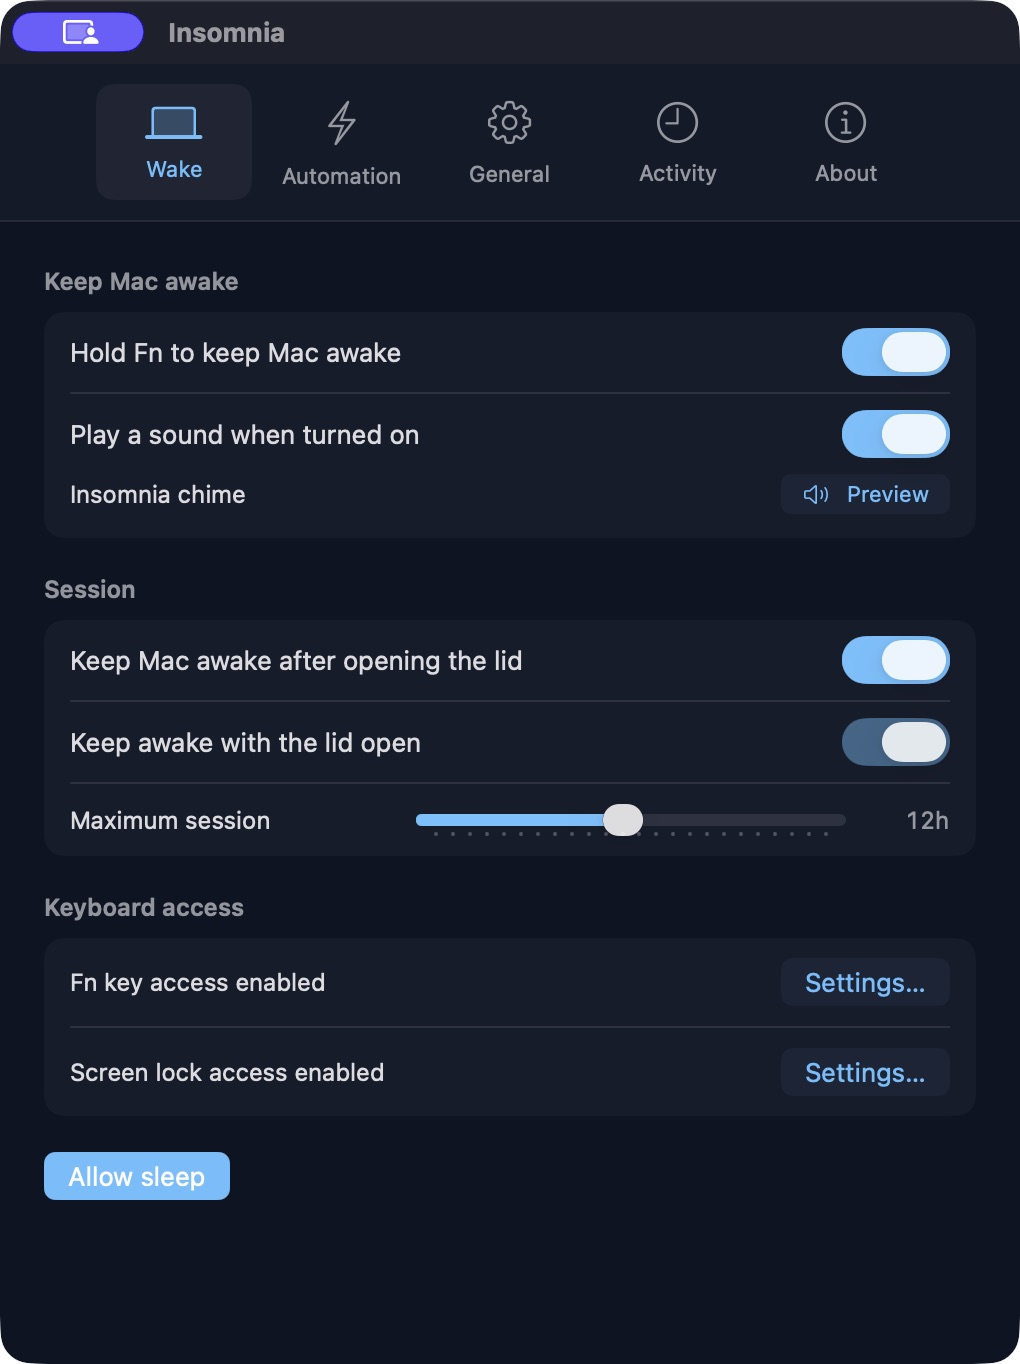
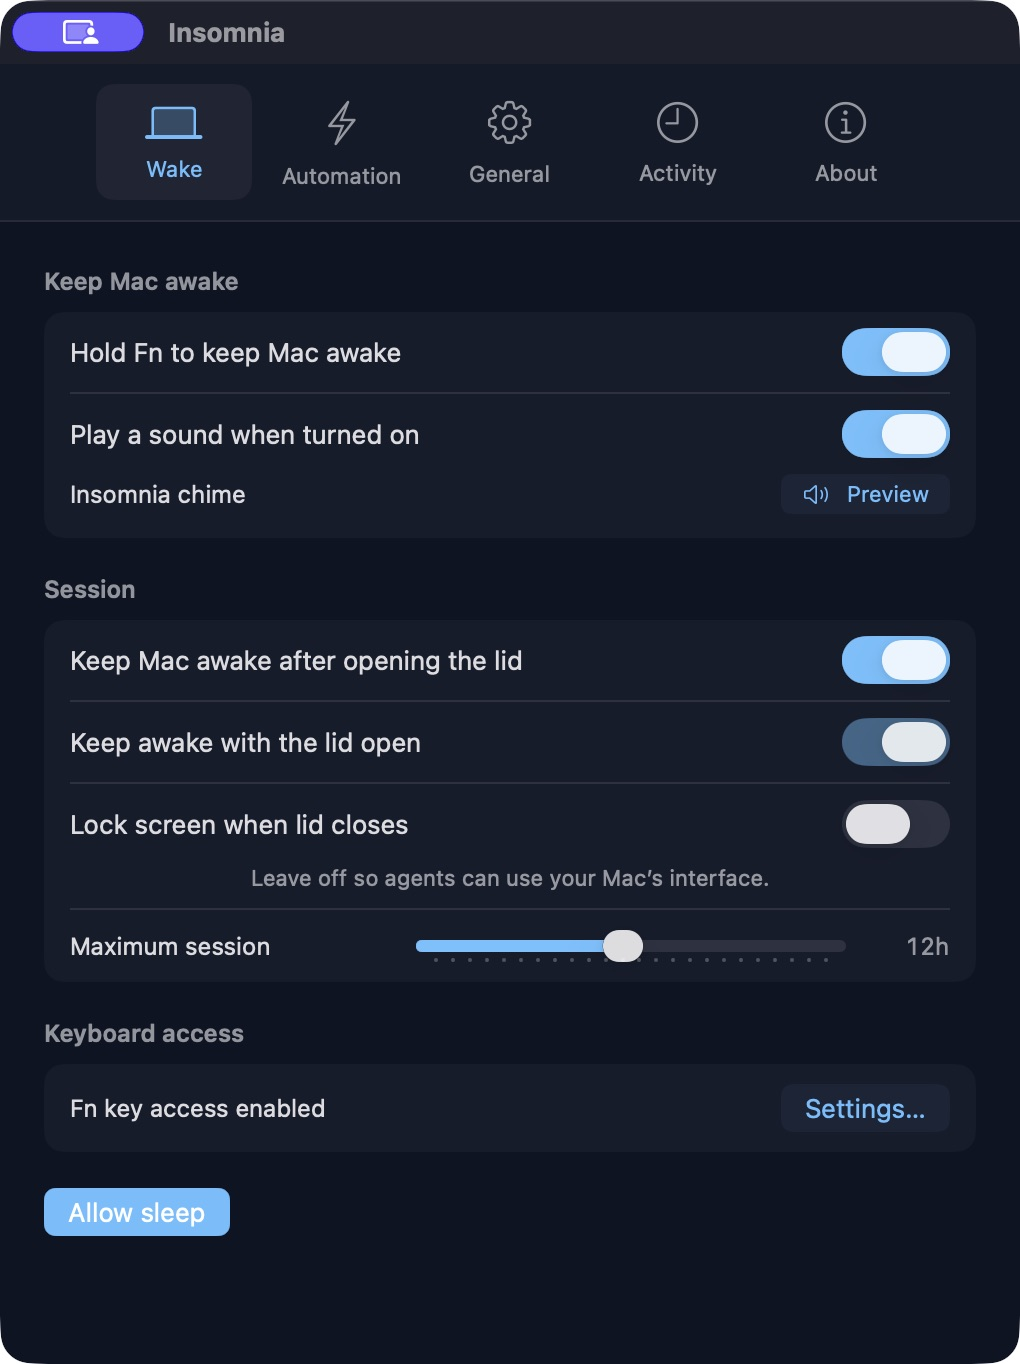
feat: make lid locking optional and prepare public release

diff --git a/Sources/Insomnia/Model.swift b/Sources/Insomnia/Model.swift
@@ -135,7 +135,13 @@ import SwiftUI
       started = Date()
       deadline = minutes.map { Date().addingTimeInterval($0 * 60) }
       message = automatically ? "Keeping your agents working" : "You can close the lid"
-      log("Armed\(automatically ? " by agent" : " manually")")
+      let agents = Array(
+        Set(
+          sessions.filter {
+            $0.state == "working" || preferences.keepWaiting && $0.state == "waiting"
+          }.map(\.agent))
+      ).sorted().joined(separator: ", ")
+      log(automatically ? "Keep awake started by \(agents)" : "Keep awake started manually")
       if preferences.sound { playChime() }
     } catch {
       self.error = error.localizedDescription
@@ -188,7 +194,7 @@ import SwiftUI
     if closed != lidClosed {
       lidClosed = closed
       if closed && armed {
-        lockAndSleepDisplay()
+        if preferences.lockOnLidClose { lockScreen() }
         hideOverlay?()
         log("Lid closed")
       }
@@ -207,10 +213,19 @@ import SwiftUI
         return (url, event)
       }.sorted { $0.1.timestamp < $1.1.timestamp }
       for (url, event) in events {
+        let before = registry.sessions
         registry.apply(event)
+        let key = event.agent + ":" + event.session
+        if before[key]?.state != registry.sessions[key]?.state {
+          let state =
+            event.state == "finished"
+            ? "finished" : event.state == "waiting" ? "waiting for approval" : "working"
+          log("\(event.agent): \(state)")
+        }
         try? FileManager.default.removeItem(at: url)
       }
     }
+    let previousAgents = Array(Set(sessions.map(\.agent))).sorted().joined(separator: ", ")
     registry.expire(now: Date(), hours: preferences.maximumHours)
     let currentSessions = registry.sessions.values.sorted { $0.started < $1.started }
     if sessions != currentSessions { sessions = currentSessions }
@@ -243,7 +258,7 @@ import SwiftUI
         automatic: automatic, enabled: preferences.autoStop, wasActive: previousActive,
         isActive: active)
       {
-        disarm("All agents finished", pauseAutomation: false)
+        disarm("Sleep allowed — \(previousAgents) no longer active", pauseAutomation: false)
       }
     } else if preferences.autoArm && active && !paused {
       arm(automatically: true)
@@ -256,22 +271,7 @@ import SwiftUI
   func registryValueLid() -> Bool {
     registryProperties("IOPMrootDomain")["AppleClamshellState"] as? Bool ?? false
   }
-  func lockAndSleepDisplay() {
-    let p = Process()
-    p.executableURL = URL(fileURLWithPath: "/usr/bin/pmset")
-    p.arguments = ["displaysleepnow"]
-    try? p.run()
-    // The public screen-lock shortcut, sent only on an armed lid-close transition.
-    if accessibilityTrusted,
-      let down = CGEvent(keyboardEventSource: nil, virtualKey: 12, keyDown: true),
-      let up = CGEvent(keyboardEventSource: nil, virtualKey: 12, keyDown: false)
-    {
-      down.flags = [.maskControl, .maskCommand]
-      up.flags = [.maskControl, .maskCommand]
-      down.post(tap: .cghidEventTap)
-      up.post(tap: .cghidEventTap)
-    }
-  }
+
   func diagnostics() -> String {
     "Insomnia 1.0\nmacOS \(ProcessInfo.processInfo.operatingSystemVersionString)\nArmed: \(armed)\nLid closed: \(lidClosed)\nBattery: \(sensors.battery.map { String(format: "%.0f%%", $0) } ?? "unavailable")\nTemperature: \(sensors.temperature.map { String(format: "%.1f°C", $0) } ?? "unavailable")\nThermal pressure: \(sensors.thermal)\nAgent sessions: \(sessions.count)\nConnections: \(connected.sorted().joined(separator: ", "))\n\n"
       + history.joined(separator: "\n")
@@ -285,15 +285,26 @@ import SwiftUI
     armingSound?.stop()
     armingSound?.play()
   }
-  func requestAccessibility(openSettings: Bool = false) {
+
+  func lockScreen() {
+    guard accessibilityTrusted,
+      let down = CGEvent(keyboardEventSource: nil, virtualKey: 12, keyDown: true),
+      let up = CGEvent(keyboardEventSource: nil, virtualKey: 12, keyDown: false)
+    else {
+      log("Screen lock needs Accessibility")
+      return
+    }
+    down.flags = [.maskControl, .maskCommand]
+    up.flags = [.maskControl, .maskCommand]
+    down.post(tap: .cghidEventTap)
+    up.post(tap: .cghidEventTap)
+  }
+  func requestAccessibility() {
     let options =
       [kAXTrustedCheckOptionPrompt.takeUnretainedValue() as String: true] as CFDictionary
     accessibilityTrusted = AXIsProcessTrustedWithOptions(options)
-    if openSettings || !accessibilityTrusted {
-      NSWorkspace.shared.open(
-        URL(
-          string: "x-apple.systempreferences:com.apple.preference.security?Privacy_Accessibility")!)
-    }
+    NSWorkspace.shared.open(
+      URL(string: "x-apple.systempreferences:com.apple.preference.security?Privacy_Accessibility")!)
   }
   func copyDiagnostics() {
     NSPasteboard.general.clearContents()

diff --git a/Sources/Insomnia/Views.swift b/Sources/Insomnia/Views.swift
@@ -61,14 +61,6 @@ struct PanelView: View {
         Image(systemName: model.lidClosed ? "laptopcomputer.slash" : "laptopcomputer")
       }.font(.system(size: 12, weight: .medium)).foregroundStyle(.secondary).padding(12).background(
         .white.opacity(0.04), in: RoundedRectangle(cornerRadius: 10))
-      if !model.accessibilityTrusted {
-        HStack(spacing: 8) {
-          Text("Screen lock needs Accessibility").foregroundStyle(.yellow)
-          Spacer(minLength: 0)
-          Button("Enable") { model.requestAccessibility() }.buttonStyle(.bordered).controlSize(
-            .mini)
-        }.font(.system(size: 11))
-      }
       if !model.armed {
         Picker("Keep awake", selection: $duration) {
           Text("Until I allow sleep").tag(0.0)
@@ -237,6 +229,23 @@ struct SettingsView: View {
         toggle("Keep awake with the lid open", $model.preferences.keepOpen).disabled(model.armed)
           .help("Allow sleep before changing this setting")
         Divider()
+        toggle("Lock screen when lid closes", $model.preferences.lockOnLidClose)
+          .help("macOS automatic-lock settings still apply.")
+        Text("Leave off so agents can use your Mac’s interface.")
+          .font(.system(size: 11)).foregroundStyle(.secondary)
+          .fixedSize(horizontal: false, vertical: true).padding(.bottom, 8)
+        if model.preferences.lockOnLidClose {
+          HStack {
+            Text(
+              model.accessibilityTrusted
+                ? "Screen lock access enabled" : "Screen lock needs Accessibility")
+            Spacer()
+            Button(model.accessibilityTrusted ? "Settings…" : "Enable…") {
+              model.requestAccessibility()
+            }
+          }.font(.system(size: 12)).padding(.vertical, 6)
+        }
+        Divider()
         slider("Maximum session", $model.preferences.maximumHours, range: 1...24, suffix: "h")
       }
       section("Keyboard access") {
@@ -253,16 +262,7 @@ struct SettingsView: View {
                   "x-apple.systempreferences:com.apple.preference.security?Privacy_ListenEvent")!)
           }
         }.font(.system(size: 12)).padding(.vertical, 10)
-        Divider()
-        HStack {
-          Text(
-            model.accessibilityTrusted
-              ? "Screen lock access enabled" : "Screen lock needs Accessibility")
-          Spacer()
-          Button(model.accessibilityTrusted ? "Settings…" : "Enable…") {
-            model.requestAccessibility(openSettings: true)
-          }
-        }.font(.system(size: 12)).padding(.vertical, 10)
+
       }
       Button(model.armed ? "Allow sleep" : "Keep Mac awake") {
         if model.armed { model.disarm() } else { model.arm() }

diff --git a/Sources/InsomniaCore/Policy.swift b/Sources/InsomniaCore/Policy.swift
@@ -7,6 +7,7 @@ public struct Preferences: Codable, Equatable {
   public var temperatureGuard = true
   public var temperatureLimit = 45.0
   public var keepOpen = true
+  public var lockOnLidClose = false
   public var stayArmed = false
   public var fnArming = true
   public var sound = true
@@ -15,6 +16,30 @@ public struct Preferences: Codable, Equatable {
   public var keepWaiting = false
   public var maximumHours = 12.0
   public init() {}
+  enum CodingKeys: String, CodingKey {
+    case batteryGuard, batteryLimit, thermalGuard, temperatureGuard, temperatureLimit, keepOpen,
+      lockOnLidClose, stayArmed, fnArming, sound, autoArm, autoStop, keepWaiting, maximumHours
+  }
+  public init(from decoder: Decoder) throws {
+    let values = try decoder.container(keyedBy: CodingKeys.self)
+    batteryGuard = try values.decodeIfPresent(Bool.self, forKey: .batteryGuard) ?? batteryGuard
+    batteryLimit = try values.decodeIfPresent(Double.self, forKey: .batteryLimit) ?? batteryLimit
+    thermalGuard = try values.decodeIfPresent(Bool.self, forKey: .thermalGuard) ?? thermalGuard
+    temperatureGuard =
+      try values.decodeIfPresent(Bool.self, forKey: .temperatureGuard) ?? temperatureGuard
+    temperatureLimit =
+      try values.decodeIfPresent(Double.self, forKey: .temperatureLimit) ?? temperatureLimit
+    keepOpen = try values.decodeIfPresent(Bool.self, forKey: .keepOpen) ?? keepOpen
+    lockOnLidClose =
+      try values.decodeIfPresent(Bool.self, forKey: .lockOnLidClose) ?? lockOnLidClose
+    stayArmed = try values.decodeIfPresent(Bool.self, forKey: .stayArmed) ?? stayArmed
+    fnArming = try values.decodeIfPresent(Bool.self, forKey: .fnArming) ?? fnArming
+    sound = try values.decodeIfPresent(Bool.self, forKey: .sound) ?? sound
+    autoArm = try values.decodeIfPresent(Bool.self, forKey: .autoArm) ?? autoArm
+    autoStop = try values.decodeIfPresent(Bool.self, forKey: .autoStop) ?? autoStop
+    keepWaiting = try values.decodeIfPresent(Bool.self, forKey: .keepWaiting) ?? keepWaiting
+    maximumHours = try values.decodeIfPresent(Double.self, forKey: .maximumHours) ?? maximumHours
+  }
 }
 public struct Sensors: Equatable {
   public var battery: Double?

diff --git a/Tests/InsomniaCoreTests/PolicyTests.swift b/Tests/InsomniaCoreTests/PolicyTests.swift
@@ -3,6 +3,20 @@ import XCTest
 @testable import InsomniaCore
 
 final class PolicyTests: XCTestCase {
+  func testExistingPreferencesPreservedWithLockDisabled() throws {
+    var old = Preferences()
+    old.batteryLimit = 33
+    old.stayArmed = true
+    var json = try XCTUnwrap(
+      JSONSerialization.jsonObject(with: JSONEncoder().encode(old)) as? [String: Any])
+    json.removeValue(forKey: "lockOnLidClose")
+    let loaded = try JSONDecoder().decode(
+      Preferences.self, from: JSONSerialization.data(withJSONObject: json))
+    XCTAssertEqual(loaded, old)
+    XCTAssertFalse(loaded.lockOnLidClose)
+    old.lockOnLidClose = true
+    XCTAssertEqual(try JSONDecoder().decode(Preferences.self, from: JSONEncoder().encode(old)), old)
+  }
   func testAgentCompletionNeverEndsManualSession() {
     XCTAssertFalse(
       AutomationPolicy.shouldStop(automatic: false, enabled: true, wasActive: true, isActive: false)

diff --git a/README.md b/README.md
@@ -4,10 +4,17 @@
 <h1 align="center">Insomnia</h1>
 <p align="center">Let your Mac work. Let yourself rest.</p>
 <p align="center">Native macOS · No account · No telemetry · Free and open source</p>
+<p align="center">
+  <a href="https://github.com/thisistoni/insomnia-macos/releases/latest"><img src="https://img.shields.io/github/v/release/thisistoni/insomnia-macos?style=flat-square&color=66bfff" alt="Latest release"></a>
+  <a href="https://github.com/thisistoni/insomnia-macos/actions/workflows/ci.yml"><img src="https://github.com/thisistoni/insomnia-macos/actions/workflows/ci.yml/badge.svg" alt="Build and test"></a>
+  <img src="https://img.shields.io/badge/macOS-14%2B-66bfff?style=flat-square" alt="macOS 14 or later">
+  <a href="LICENSE"><img src="https://img.shields.io/badge/license-MIT-66bfff?style=flat-square" alt="MIT license"></a>
+</p>
+<p align="center"><a href="https://github.com/thisistoni/insomnia-macos/releases/latest/download/Insomnia-macOS-arm64.dmg"><strong>Download for Apple silicon</strong></a> · <a href="docs/install-with-agent.md">Install with your agent</a></p>
 
 Insomnia lives in your menu bar and keeps your Mac awake for long-running jobs, downloads and coding agents. Start a timed session, hold Fn, or let connected agents manage their own sessions.
 
-**Release status:** release preparation is local. A public download will follow physical closed-lid verification. macOS 14+; tested locally on Apple silicon. Intel hardware is unvalidated. Closed-lid control uses a private macOS interface, so verify it after macOS updates.
+Requires **macOS 14+ and Apple silicon** for the published download. Closed-lid job continuity was checked on AC and battery on an Apple-silicon Mac running macOS 26. Intel hardware is unvalidated. Closed-lid control uses a private macOS interface, so verify it on your Mac and after macOS updates.
 
 <p align="center"><img src="docs/screenshots/panel.png" width="326" alt="Insomnia menu-bar session panel"></p>
 
@@ -19,27 +26,32 @@ Insomnia lives in your menu bar and keeps your Mac awake for long-running jobs, 
 - Choose 15 minutes, 30 minutes, 1, 2 or 4 hours, or use the maximum-session limit.
 - Battery, battery-temperature and thermal-pressure guards stop a session when needed.
 - Optional Fn activation, screen locking on lid close, custom chime and launch at login.
-- Claude Code, Codex, Cursor and OpenCode lifecycle connections support concurrent agent sessions. Agent completion only ends sessions started by automation.
+- Optional Claude Code, Codex, Cursor and OpenCode lifecycle bridges support concurrent agent sessions. Bridges are experimental and vendor-version dependent. Agent completion only ends sessions started by automation.
 - A separate watchdog restores power behavior if the app stops, hangs or loses its helper.
 
 <p align="center"><img src="docs/screenshots/settings.png" width="510" alt="Insomnia Wake settings"></p>
 
 ## Install
 
-The local release package is Developer ID signed, notarized by Apple, and stapled. It is being held for physical closed-lid verification before publication. Until it is published, build from source:
+1. [Download the signed and Apple-notarized DMG](https://github.com/thisistoni/insomnia-macos/releases/latest/download/Insomnia-macOS-arm64.dmg).
+2. Open it and drag **Insomnia** into **Applications**.
+3. Open Insomnia from Applications. Click the eye in your menu bar.
 
-1. Install Xcode Command Line Tools if needed: `xcode-select --install`.
-2. Clone this repository into a local development folder and run:
+The app has no terminal requirement. A [ZIP and checksums](https://github.com/thisistoni/insomnia-macos/releases/latest) are also available. Insomnia is unrelated to the API client with the same name; check before replacing an existing app.
+
+Want your agent to handle installation? Copy the [installation prompt](docs/install-with-agent.md).
+
+### Build from source
+
+Install Xcode Command Line Tools (`xcode-select --install`), then:
 
 ```sh
+git clone https://github.com/thisistoni/insomnia-macos.git
+cd insomnia-macos
 ./scripts/build.sh
 ```
 
-3. Move `build/Insomnia.app` into Applications using Finder, then open it. If an app with that name already exists, check that it is this menu-bar app before replacing it. Insomnia is unrelated to the API client with the same name.
-
-The app has no terminal requirement after installation. Locally built apps use an available Developer ID signature or an ad-hoc signature. macOS may require you to review an unnotarized build in Privacy & Security; do not disable Gatekeeper or remove quarantine.
-
-For an installation prompt you can give a coding agent, see [Install with an agent](docs/install-with-agent.md). The prompt refers to the intended public repository and should be used once that repository is published.
+Move `build/Insomnia.app` into Applications using Finder and open it. Local builds use an available Developer ID signature or an ad-hoc signature; they are not automatically notarized. Review any macOS Privacy & Security prompt without disabling Gatekeeper or removing quarantine.
 
 ## Permissions
 
@@ -48,9 +60,8 @@ Manual sessions work without extra permissions. Enable these only if you want th
 | Permission | Feature | Where |
 | --- | --- | --- |
 | Input Monitoring | Hold Fn to keep awake | Settings → Wake → Keyboard access |
-| Accessibility | Screen lock when the lid closes | Settings → Wake → Keyboard access |
 
-The buttons open the relevant System Settings page. macOS owns the approval; the app cannot enable these permissions for you. The screen can be locked while a job continues to run.
+The buttons open the relevant System Settings page. macOS owns the approval; the app cannot enable these permissions for you. “Lock screen when lid closes” is off by default for computer use. Enable it in Wake → Session to lock on an awake lid-close transition; Accessibility is required. Insomnia does not force display sleep. macOS automatic-lock policies still apply.
 
 ## Connect coding agents
 
@@ -58,7 +69,7 @@ In **Settings → Automation**, choose Connect beside an agent and restart it. C
 
 Existing hook configurations are backed up and merged; Disconnect removes Insomnia's handlers. Keep the app in Applications so the executable path stays stable. Connections must be refreshed if you move it. Only agent name, session ID, state and timestamp are retained—never prompts, source code, tool arguments or transcripts. Events older than one minute are ignored.
 
-The bridges follow [Claude Code hooks](https://code.claude.com/docs/en/hooks), [Codex hooks](https://developers.openai.com/codex/hooks), [Cursor hooks](https://cursor.com/docs/hooks), and [OpenCode plugins](https://opencode.ai/docs/plugins/). Live vendor sessions still need validation for each installed version. Cursor approval-wait detection is not implemented. Manual sessions cover tools without a suitable lifecycle bridge.
+The bridges follow [Claude Code hooks](https://code.claude.com/docs/en/hooks), [Codex hooks](https://developers.openai.com/codex/hooks), [Cursor hooks](https://cursor.com/docs/hooks), and [OpenCode plugins](https://opencode.ai/docs/plugins/). These bridges are experimental: Codex lifecycle events have been observed locally, while live Claude Code, Cursor and OpenCode compatibility remains unverified. Cursor approval-wait detection is not implemented. Manual sessions cover tools without a suitable lifecycle bridge.
 
 ## Check closed-lid behavior
 
@@ -80,7 +91,6 @@ No third-party runtime dependencies. Open `Package.swift` in Xcode. [Architectur
 - **Can't start a session:** read the panel message. Required missing sensors prevent waking; check General → Safety. Desktop Macs may not expose battery sensors.
 - **Agent doesn't activate it:** restart the agent, verify its hooks are loaded/trusted, and confirm Insomnia is running. A connection button only confirms configuration is installed.
 - **Fn doesn't respond:** grant Input Monitoring and follow any macOS restart prompt.
-- **Screen doesn't lock:** enable Accessibility from Wake settings. Permissions are tied to the installed signature.
 - **Unexpected sleep:** check timers, safety limits, the stay-awake-after-opening setting and recent Activity. Avoid running another lid-control app alongside Insomnia.
 
 ## License

diff --git a/VERIFICATION.md b/VERIFICATION.md
@@ -4,16 +4,16 @@ Local review on 6 October 2026: Apple-silicon Mac, macOS 26, Swift 6.3.2.
 
 ## Confirmed
 
-- Eight unit tests pass, including the regression that agent completion cannot end a manual session, charging-aware battery limits, unavailable sensors, thermal pressure, concurrent agents, waiting policy, expiration, stale/out-of-order events and preserving/idempotent hook updates.
+- Nine unit tests pass, including the regression that agent completion cannot end a manual session, charging-aware battery limits, unavailable sensors, thermal pressure, concurrent agents, waiting policy, expiration, stale/out-of-order events and preserving/idempotent hook updates.
 - Release bundle builds and Developer ID signature verification pass. Apple notarization Accepted; ticket stapling/validation and Gatekeeper assessment pass for the local release package.
 - Actual helper STOP, EOF, heartbeat timeout SIGTERM and sustained-heartbeat checks acquire/release real public sleep assertions and remove the ownership receipt.
 - Synthetic lifecycle events were tested against the installed hook entrypoint; multiple sessions aggregated correctly. These are not evidence of live vendor-agent compatibility.
 - Native UI inspected for the session panel, settings pages, quick menu, tab switching and permission state. Manual wake/sleep, chime preview and Accessibility recognition were exercised locally.
-- Physical AC check: user completed the requested no-external-display procedure. A separate timestamp job recorded 77 samples across 81.1 seconds with the lid closed. Maximum observed interval across the run was 2.512 seconds, with no closed-lid-length pause. The screen locked while the job continued. The first battery check then exposed a 90-second clamshell-sleep gap. Sleep-notification handling and heartbeat refresh were corrected; physical battery retest is pending.
+- Physical AC check: user completed the requested no-external-display procedure. A separate timestamp job recorded 77 samples across 81.1 seconds with the lid closed. Maximum observed interval across the run was 2.512 seconds, with no closed-lid-length pause. The screen locked while the job continued. The first battery check then exposed a 90-second clamshell-sleep gap. Sleep-notification handling and heartbeat refresh were corrected; Battery retest passed: 138 samples across 147 seconds with the lid closed, unplugged; maximum observed interval was 1.503 seconds.
 
-## Release gates still open
+## Scope and limitations
 
-- Physical closed-lid job continuity on battery without external displays.
-- Live Claude Code, Codex, Cursor and OpenCode jobs and approval flows on declared supported versions.
+- Screen locking is now opt-in and defaults off. The UI toggle and permission state were checked; existing preferences migrate without resetting. Computer-use continuity with the lid closed has not been separately exercised.
+- Codex lifecycle events and agent attribution were observed locally. Claude Code, Cursor and OpenCode live jobs/approval flows remain unverified; agent bridges are explicitly experimental.
 
-Intel hardware and power efficiency relative to other apps are not validated. The release remains local until the required checks are completed; no production-readiness claim is made.
+Intel hardware and power efficiency relative to other apps are not validated. The physical checks apply to this Mac and tested power conditions; they are not a guarantee for every Mac or macOS version.

diff --git a/docs/install-with-agent.md b/docs/install-with-agent.md
@@ -24,7 +24,7 @@ README instructions; ask me to install Xcode Command Line Tools if missing.
 Verify the menu-bar icon and settings appear. Explain Keep Mac awake and
 Allow sleep. Only connect agents I explicitly choose, preserve their
 existing hooks, and let me review any hook-trust prompt. Let me approve
-Accessibility/Input Monitoring myself when needed. Do not claim closed-lid
+Input Monitoring myself when needed. Do not claim closed-lid
 behavior is verified until I perform the physical test in the README.
 Report the installed version, source release URL and any remaining steps.
 ```

diff --git a/docs/README.md b/docs/README.md
@@ -1,0 +1,7 @@
+# Documentation
+
+- [Install with your agent](install-with-agent.md) — copyable installation prompt.
+- [Architecture and limits](architecture.md) — components, lifecycle and compatibility.
+- [Releasing](releasing.md) — signing, notarization and packaging.
+- [Verification](../VERIFICATION.md) — checks performed and their limits.
+- [Contributing](../CONTRIBUTING.md) — development and bug reports.
